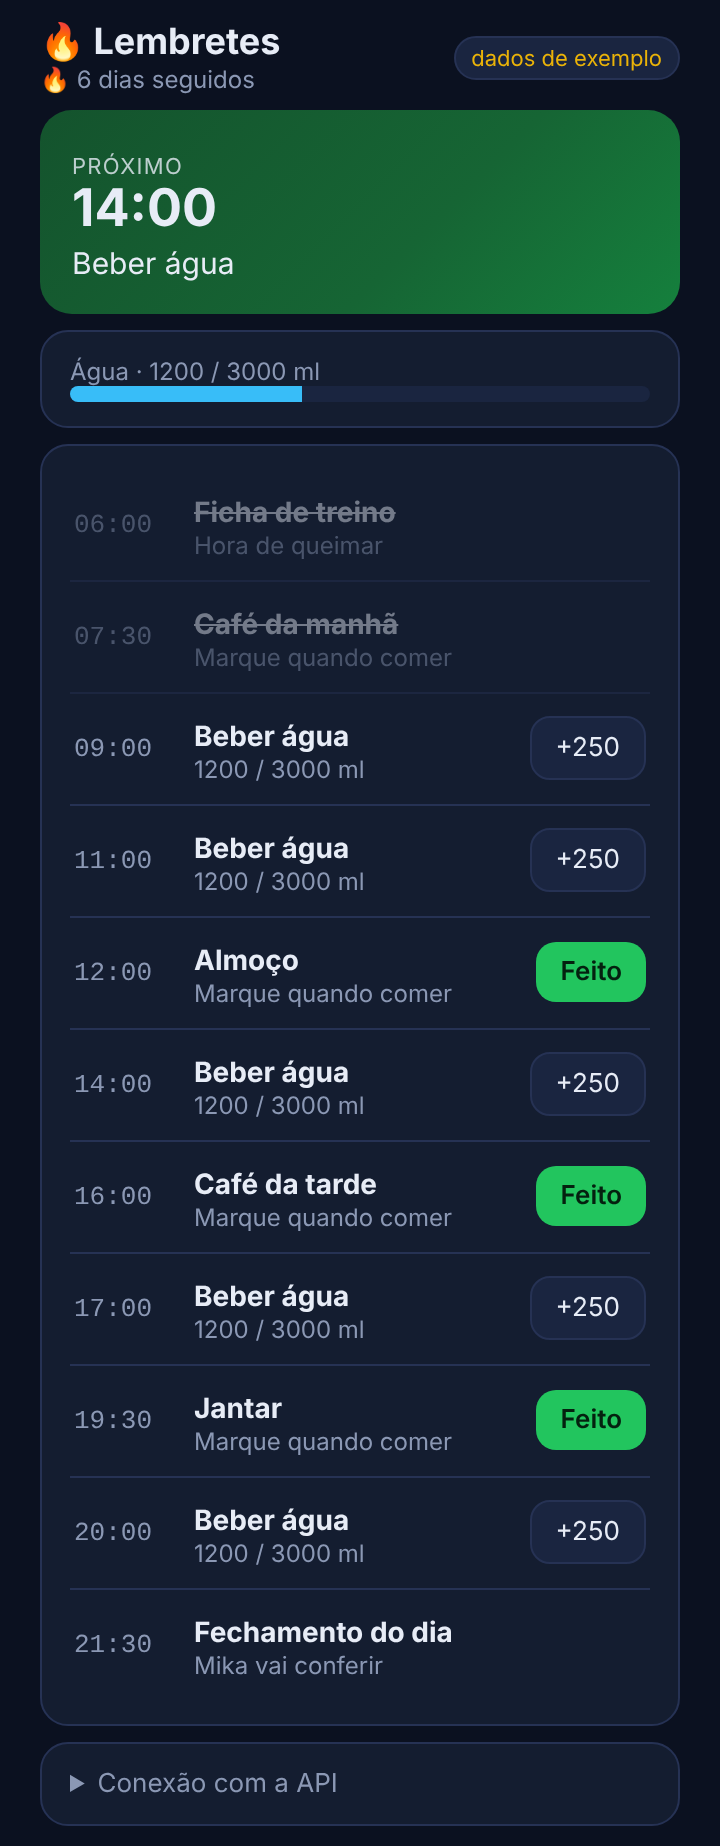
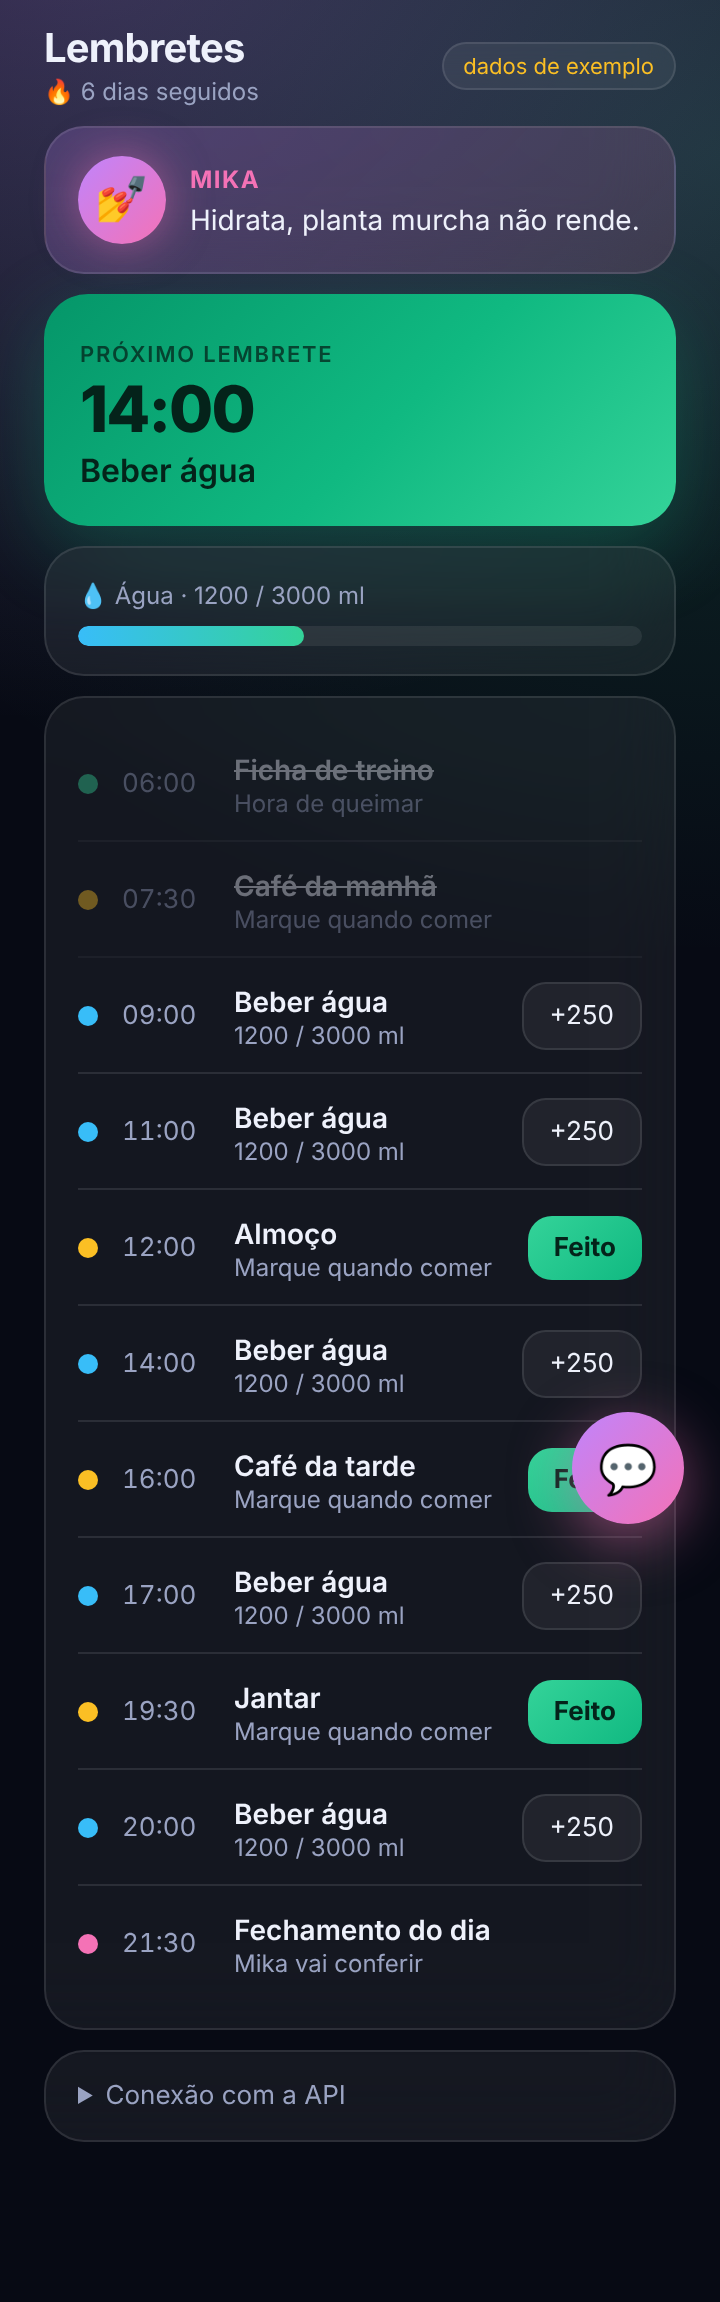
feat(lembretes): visual moderno, Mika (chat e notificações no tom dela)
Claude-Session: https://claude.ai/code/session_01Cn6JQLKXu7PLS61LU6jjnp

diff --git a/lembretes/src/style.css b/lembretes/src/style.css
@@ -1,23 +1,30 @@
-:root { color-scheme: dark; --bg:#0b1120; --card:#141d30; --card2:#1a2540; --line:#263254; --text:#e7ecf6; --muted:#8b98b4; --accent:#22c55e; --warn:#eab308; font-family: Inter, system-ui, sans-serif; }
+:root { color-scheme: dark; --bg:#070a14; --glass:rgba(255,255,255,.055); --line:rgba(255,255,255,.1); --text:#eef1fb; --muted:#9aa3c2; --g:#34d399; --p:#c084fc; --pk:#f472b6; --b:#38bdf8; font-family: Inter, system-ui, sans-serif; }
 * { box-sizing: border-box; }
-body { margin:0; background:var(--bg); color:var(--text); min-height:100vh; padding: env(safe-area-inset-top) 0 env(safe-area-inset-bottom); }
-.wrap { max-width: 440px; margin: 0 auto; padding: 16px; display:flex; flex-direction:column; gap:12px; }
+body { margin:0; color:var(--text); min-height:100vh; background: radial-gradient(600px 400px at 10% -5%, rgba(192,132,252,.28), transparent), radial-gradient(500px 400px at 100% 10%, rgba(52,211,153,.18), transparent), var(--bg); background-attachment: fixed; padding: env(safe-area-inset-top) 0 env(safe-area-inset-bottom); }
+.wrap { max-width: 440px; margin: 0 auto; padding: 18px 16px 90px; display:flex; flex-direction:column; gap:14px; }
 header { display:flex; justify-content:space-between; align-items:center; }
-h1 { font-size:18px; margin:0; } .sub { color:var(--muted); font-size:12px; }
-.badge { font-size:11px; padding:3px 8px; border-radius:99px; background:var(--card2); color:var(--warn); border:1px solid var(--line); }
-.badge.live { color:var(--accent); }
-.next { background:linear-gradient(135deg,#14532d,#166534 60%,#15803d); border-radius:16px; padding:16px; }
-.next small { opacity:.8; text-transform:uppercase; letter-spacing:.06em; font-size:11px; }
-.next .t { font-size:34px; font-weight:700; line-height:1.1; } .next .n { font-size:15px; margin-top:2px; }
-.bar { height:8px; background:var(--card2); border-radius:99px; overflow:hidden; } .bar i { display:block; height:100%; background:#38bdf8; }
-.card { background:var(--card); border:1px solid var(--line); border-radius:14px; padding:12px 14px; }
-.row { display:flex; align-items:center; gap:12px; padding:10px 2px; border-bottom:1px solid var(--line); }
-.row:last-child { border:0; } .row .time { font-family:ui-monospace,monospace; color:var(--muted); width:48px; font-size:13px; }
-.row .main { flex:1; } .row .main b { font-size:14px; } .row .main div { font-size:12px; color:var(--muted); }
-.row.done { opacity:.45; } .row.done b { text-decoration:line-through; }
-button { background:var(--card2); color:var(--text); border:1px solid var(--line); border-radius:10px; padding:7px 12px; font:inherit; font-size:13px; cursor:pointer; }
-button.ok { background:var(--accent); color:#04210f; border:0; font-weight:600; }
+h1 { font-size:20px; margin:0; letter-spacing:-.02em; } .sub { color:var(--muted); font-size:12px; margin-top:2px; }
+.badge { font-size:11px; padding:4px 10px; border-radius:99px; background:var(--glass); border:1px solid var(--line); color:#fbbf24; backdrop-filter:blur(10px); }
+.badge.live { color:var(--g); }
+.glass { background:var(--glass); border:1px solid var(--line); border-radius:20px; padding:14px 16px; backdrop-filter:blur(18px); }
+.mika { display:flex; gap:12px; align-items:flex-start; background:linear-gradient(135deg,rgba(192,132,252,.22),rgba(244,114,182,.14)); }
+.av { width:44px; height:44px; flex:none; border-radius:50%; display:grid; place-items:center; font-size:22px; background:linear-gradient(135deg,var(--p),var(--pk)); box-shadow:0 0 22px rgba(244,114,182,.5); }
+.mika b { font-size:12px; color:var(--pk); letter-spacing:.06em; text-transform:uppercase; } .mika p { margin:3px 0 0; font-size:14px; line-height:1.4; }
+.next { border-radius:22px; padding:18px; background:linear-gradient(135deg,#059669,#10b981 55%,#34d399); color:#04231a; box-shadow:0 12px 40px rgba(16,185,129,.28); }
+.next small { opacity:.75; text-transform:uppercase; letter-spacing:.08em; font-size:11px; font-weight:600; }
+.next .t { font-size:42px; font-weight:800; line-height:1; letter-spacing:-.03em; margin-top:4px; } .next .n { font-weight:600; margin-top:4px; }
+.bar { height:10px; background:rgba(255,255,255,.08); border-radius:99px; overflow:hidden; margin-top:8px; } .bar i { display:block; height:100%; background:linear-gradient(90deg,var(--b),var(--g)); border-radius:99px; }
+.row { display:flex; align-items:center; gap:12px; padding:11px 0; border-bottom:1px solid var(--line); } .row:last-child { border:0; }
+.dot { width:10px; height:10px; border-radius:50%; background:var(--b); flex:none; } .dot.refeicao{background:#fbbf24} .dot.ficha{background:var(--g)} .dot.fechamento{background:var(--pk)}
+.row .time { font-variant-numeric:tabular-nums; color:var(--muted); width:44px; font-size:13px; }
+.row .main { flex:1; } .row .main b { font-size:14px; font-weight:600; } .row .main div { font-size:12px; color:var(--muted); }
+.row.done { opacity:.4; } .row.done b { text-decoration:line-through; }
+button { background:var(--glass); color:var(--text); border:1px solid var(--line); border-radius:12px; padding:8px 13px; font:inherit; font-size:13px; cursor:pointer; }
+button.ok { background:linear-gradient(135deg,var(--g),#10b981); color:#04231a; border:0; font-weight:700; }
 .actions { display:flex; gap:8px; } .actions button { flex:1; }
-input { width:100%; background:var(--bg); color:var(--text); border:1px solid var(--line); border-radius:10px; padding:9px; margin:4px 0 8px; font:inherit; }
+input { width:100%; background:rgba(0,0,0,.3); color:var(--text); border:1px solid var(--line); border-radius:12px; padding:10px; margin:4px 0 8px; font:inherit; }
 details summary { cursor:pointer; color:var(--muted); font-size:13px; }
-body.widget .wrap { max-width: 340px; padding: 10px; gap:8px; } body.widget .next .t { font-size:26px; }
+.fab { position:fixed; right:18px; bottom:calc(18px + env(safe-area-inset-bottom)); width:56px; height:56px; border-radius:50%; padding:0; font-size:24px; border:0; background:linear-gradient(135deg,var(--p),var(--pk)); box-shadow:0 8px 30px rgba(244,114,182,.5); }
+.chat { display:flex; flex-direction:column; gap:8px; max-height:38vh; overflow:auto; } .chat div { padding:8px 12px; border-radius:14px; font-size:13px; max-width:85%; }
+.chat .me { align-self:flex-end; background:rgba(56,189,248,.2); } .chat .ai { background:rgba(192,132,252,.2); }
+body.widget .wrap { max-width: 340px; padding: 12px 12px 80px; gap:10px; } body.widget .next .t { font-size:32px; }

diff --git a/lembretes/src/main.ts b/lembretes/src/main.ts
@@ -1,60 +1,42 @@
 import './style.css';
-import { addWater, clearConfig, fetchToday, isMock, loadConfig, markHabit, saveConfig } from './api';
+import { addWater, clearConfig, fetchToday, isMock, markHabit, mikaChat, mikaLine, saveConfig } from './api';
+import { mockToday } from './mock';
 import { notify } from './notify';
 import { buildReminders, due, nextPending } from './reminders';
-import type { Reminder, Today } from './types';
+import { view, type ViewState } from './view';
 
 const app = document.getElementById('app')!;
-if (new URLSearchParams(location.search).has('widget')) document.body.classList.add('widget');
-let today: Today | null = null;
-let error = '';
-const nowMin = (): number => { const d = new Date(); return d.getHours() * 60 + d.getMinutes(); };
-const fakeNow = Number(new URLSearchParams(location.search).get('now'));
-const clock = (): number => (fakeNow ? Math.round(fakeNow) : nowMin());
-const esc = (s: string): string => s.replace(/[&<>"]/g, (c) => `&#${c.charCodeAt(0)};`);
+const q = new URLSearchParams(location.search);
+if (q.has('widget')) document.body.classList.add('widget');
+const clock = (): number => (q.get('now') ? Number(q.get('now')) : new Date().getHours() * 60 + new Date().getMinutes());
+const st: ViewState = { today: mockToday(), error: '', mika: 'Carregando minha paciência…', chat: [], chatOpen: q.has('chat'), now: clock() };
+const val = (id: string): string => (document.getElementById(id) as HTMLInputElement).value;
 
-function rowHtml(r: Reminder): string {
-  const act = r.done ? '' : r.kind === 'agua' ? `<button data-water="250">+250</button>` : r.kind === 'refeicao' ? `<button class="ok" data-habit="${r.id}">Feito</button>` : '';
-  return `<div class="row ${r.done ? 'done' : ''}"><span class="time">${r.time}</span><span class="main"><b>${esc(r.title)}</b><div>${esc(r.detail)}</div></span>${act}</div>`;
-}
-
-function render(): void {
-  if (!today) { app.innerHTML = `<div class="wrap"><p class="sub">${error || 'Carregando…'}</p></div>`; return; }
-  const list = buildReminders(today);
-  const nxt = nextPending(list, clock());
-  const pct = Math.min(100, Math.round((today.water.ml / today.water.goalMl) * 100));
-  const cfg = loadConfig();
-  app.innerHTML = `<div class="wrap">
-    <header><div><h1>🔥 Lembretes</h1><div class="sub">🔥 ${today.streak} dias seguidos</div></div>
-      <span class="badge ${isMock() ? '' : 'live'}">${isMock() ? 'dados de exemplo' : 'API conectada'}</span></header>
-    <div class="next"><small>Próximo</small><div class="t">${nxt ? nxt.time : 'Tudo em dia'}</div><div class="n">${nxt ? esc(nxt.title) : 'Nada pendente por hoje 🎉'}</div></div>
-    <div class="card"><div class="sub">Água · ${today.water.ml} / ${today.water.goalMl} ml</div><div class="bar"><i style="width:${pct}%"></i></div></div>
-    <div class="card">${list.map(rowHtml).join('')}</div>
-    <details class="card" ${error ? 'open' : ''}><summary>Conexão com a API ${error ? '⚠ ' + esc(error) : ''}</summary>
-      <input id="url" placeholder="https://bot.seucluster.dev" value="${esc(cfg?.baseUrl ?? '')}" />
-      <input id="tok" type="password" placeholder="Token (DASHBOARD_TOKEN)" value="${esc(cfg?.token ?? '')}" />
-      <div class="actions"><button id="save" class="ok">Salvar</button><button id="reset">Usar exemplo</button></div></details></div>`;
-}
+const render = (): void => { st.now = clock(); app.innerHTML = view(st); };
 
 async function refresh(): Promise<void> {
-  try { today = await fetchToday(); error = ''; } catch (e) { error = (e as Error).message; today ??= await import('./mock').then((m) => m.mockToday()); }
+  try { st.today = await fetchToday(); st.error = ''; } catch (e) { st.error = (e as Error).message; }
+  const nxt = nextPending(buildReminders(st.today), clock());
+  st.mika = await mikaLine(nxt?.kind ?? 'fechamento');
   render();
 }
 
 app.addEventListener('click', async (e) => {
   const el = e.target as HTMLElement;
-  if (el.dataset.habit) { await markHabit(el.dataset.habit, true); if (isMock() && today) today.habits[el.dataset.habit] = true; await refresh(); }
-  if (el.dataset.water) { await addWater(Number(el.dataset.water)); if (isMock() && today) today.water.ml += 250; await refresh(); }
-  if (el.id === 'save') { saveConfig({ baseUrl: (document.getElementById('url') as HTMLInputElement).value, token: (document.getElementById('tok') as HTMLInputElement).value }); today = null; await refresh(); }
-  if (el.id === 'reset') { clearConfig(); today = null; await refresh(); }
+  if (el.dataset.habit) { await markHabit(el.dataset.habit, true); if (isMock()) st.today.habits[el.dataset.habit] = true; await refresh(); }
+  else if (el.dataset.water) { await addWater(250); if (isMock()) st.today.water.ml += 250; await refresh(); }
+  else if (el.id === 'save') { saveConfig({ baseUrl: val('url'), token: val('tok') }); await refresh(); }
+  else if (el.id === 'reset') { clearConfig(); await refresh(); }
+  else if (el.id === 'notif') { const r = nextPending(buildReminders(st.today), 0); if (r) await notify(r); }
+  else if (el.id === 'fab') { st.chatOpen = !st.chatOpen; render(); }
+  else if (el.id === 'send' && val('msg').trim()) {
+    const text = val('msg').trim(); st.chat.push({ me: true, text }); render();
+    try { st.chat.push({ me: false, text: await mikaChat(text) }); } catch { st.chat.push({ me: false, text: 'Fora do ar. Nem eu aguento você hoje.' }); }
+    render();
+  }
 });
 
 let last = clock();
-setInterval(() => {
-  if (!today) return;
-  const now = clock();
-  due(buildReminders(today), last, now).forEach((r) => void notify(r));
-  last = now; render();
-}, 30_000);
+setInterval(() => { const now = clock(); due(buildReminders(st.today), last, now).forEach((r) => void notify(r)); last = now; render(); }, 30_000);
 setInterval(() => void refresh(), 5 * 60_000);
-void refresh();
+render(); void refresh();

diff --git a/lembretes/src/view.ts b/lembretes/src/view.ts
@@ -1,0 +1,33 @@
+import { isMock, loadConfig } from './api';
+import { buildReminders, nextPending } from './reminders';
+import type { Reminder, Today } from './types';
+
+export const esc = (s: string): string => s.replace(/[&<>"]/g, (c) => `&#${c.charCodeAt(0)};`);
+
+function row(r: Reminder): string {
+  const act = r.done ? '' : r.kind === 'agua' ? `<button data-water="250">+250</button>` : r.kind === 'refeicao' ? `<button class="ok" data-habit="${r.id}">Feito</button>` : '';
+  return `<div class="row ${r.done ? 'done' : ''}"><i class="dot ${r.kind}"></i><span class="time">${r.time}</span><span class="main"><b>${esc(r.title)}</b><div>${esc(r.detail)}</div></span>${act}</div>`;
+}
+
+export interface ViewState { today: Today; error: string; mika: string; chat: { me: boolean; text: string }[]; chatOpen: boolean; now: number }
+
+export function view(s: ViewState): string {
+  const list = buildReminders(s.today);
+  const nxt = nextPending(list, s.now);
+  const pct = Math.min(100, Math.round((s.today.water.ml / s.today.water.goalMl) * 100));
+  const cfg = loadConfig();
+  const msgs = s.chat.map((m) => `<div class="${m.me ? 'me' : 'ai'}">${esc(m.text)}</div>`).join('');
+  return `<div class="wrap">
+    <header><div><h1>Lembretes</h1><div class="sub">🔥 ${s.today.streak} dias seguidos</div></div>
+      <span class="badge ${isMock() ? '' : 'live'}">${isMock() ? 'dados de exemplo' : 'API conectada'}</span></header>
+    <div class="glass mika"><div class="av">💅</div><div><b>Mika</b><p>${esc(s.mika)}</p></div></div>
+    <div class="next"><small>Próximo lembrete</small><div class="t">${nxt ? nxt.time : '✓'}</div><div class="n">${nxt ? esc(nxt.title) : 'Tudo em dia hoje'}</div></div>
+    <div class="glass"><div class="sub">💧 Água · ${s.today.water.ml} / ${s.today.water.goalMl} ml</div><div class="bar"><i style="width:${pct}%"></i></div></div>
+    <div class="glass">${list.map(row).join('')}</div>
+    ${s.chatOpen ? `<div class="glass"><div class="chat">${msgs}</div><input id="msg" placeholder="Fale com a Mika…" /><div class="actions"><button class="ok" id="send">Enviar</button></div></div>` : ''}
+    <details class="glass" ${s.error ? 'open' : ''}><summary>Conexão com a API ${s.error ? '⚠ ' + esc(s.error) : ''}</summary>
+      <input id="url" placeholder="https://bot.seucluster.dev" value="${esc(cfg?.baseUrl ?? '')}" />
+      <input id="tok" type="password" placeholder="Token (DASHBOARD_TOKEN)" value="${esc(cfg?.token ?? '')}" />
+      <div class="actions"><button id="save" class="ok">Salvar</button><button id="reset">Usar exemplo</button><button id="notif">Testar 🔔</button></div></details>
+    <button class="fab" id="fab" aria-label="Falar com a Mika">💬</button></div>`;
+}

diff --git a/lembretes/src/api.ts b/lembretes/src/api.ts
@@ -1,4 +1,4 @@
-import { mockToday } from './mock';
+import { mockChat, mockMika, mockToday } from './mock';
 import type { Config, Today } from './types';
 
 const KEY = 'qb.lembretes.config';
@@ -37,4 +37,19 @@ export async function markHabit(key: string, done: boolean): Promise<void> {
 export async function addWater(ml: number): Promise<void> {
   const cfg = loadConfig();
   if (cfg) await call(cfg, 'POST', '/api/metrics', { type: 'water', value: ml });
+}
+
+const PROMPTS: Record<string, string> = {
+  ficha: 'Lembre-me do treino em 1 frase curta.', refeicao: 'Lembre-me de comer e marcar a refeição em 1 frase curta.',
+  agua: 'Me mande beber água em 1 frase curta.', fechamento: 'Avise que vai conferir meu dia em 1 frase curta.',
+};
+/** Frase da Mika para um lembrete (chat da API; cai no mock se offline). */
+export async function mikaLine(kind: string): Promise<string> {
+  const cfg = loadConfig();
+  if (cfg) try { return (await call<{ message: string }>(cfg, 'POST', '/api/mika/chat', { message: PROMPTS[kind] ?? PROMPTS.agua })).message; } catch { /* mock */ }
+  return mockMika(kind);
+}
+export async function mikaChat(message: string): Promise<string> {
+  const cfg = loadConfig();
+  return cfg ? (await call<{ message: string }>(cfg, 'POST', '/api/mika/chat', { message })).message : mockChat(message);
 }

diff --git a/lembretes/src/notify.ts b/lembretes/src/notify.ts
@@ -1,13 +1,15 @@
+import { mikaLine } from './api';
 import type { Reminder } from './types';
 
-/** Notificação nativa (Tauri) com fallback para a Notification API do navegador. */
+/** Notificação nativa (Tauri) no tom da Mika, com fallback para a Notification API. */
 export async function notify(r: Reminder): Promise<void> {
-  const body = `${r.time} · ${r.detail}`;
+  const body = await mikaLine(r.kind);
+  const title = `${r.time} · ${r.title}`;
   try {
     const n = await import('@tauri-apps/plugin-notification');
     if (!(await n.isPermissionGranted())) await n.requestPermission();
-    n.sendNotification({ title: r.title, body });
+    n.sendNotification({ title, body });
   } catch {
-    if ('Notification' in window && Notification.permission === 'granted') new Notification(r.title, { body });
+    if ('Notification' in window && Notification.permission === 'granted') new Notification(title, { body });
   }
 }

diff --git a/lembretes/src/mock.ts b/lembretes/src/mock.ts
@@ -8,3 +8,15 @@ export const mockToday = (): Today => ({
   trained: true,
   pauseUntil: null,
 });
+
+const ROAST: Record<string, string[]> = {
+  ficha: ['A ficha não se faz sozinha, gênio. Bora.', 'Seu eu do futuro agradece. Ou chora. Depende de você.'],
+  refeicao: ['Comer direito não é opcional, fofo(a).', 'Marca a refeição aí, sem drama.'],
+  agua: ['Água. Líquido transparente. Beba.', 'Hidrata, planta murcha não rende.'],
+  fechamento: ['Hora do fechamento. Vou conferir cada mentira.', 'Dia acabando: o que você fez de útil?'],
+};
+export const mockMika = (kind: string): string => {
+  const l = ROAST[kind] ?? ROAST.agua;
+  return l[Math.floor(Math.random() * l.length)];
+};
+export const mockChat = (msg: string): string => `Hm, "${msg.slice(0, 40)}"… conecta a API que eu respondo de verdade. 💅`;
